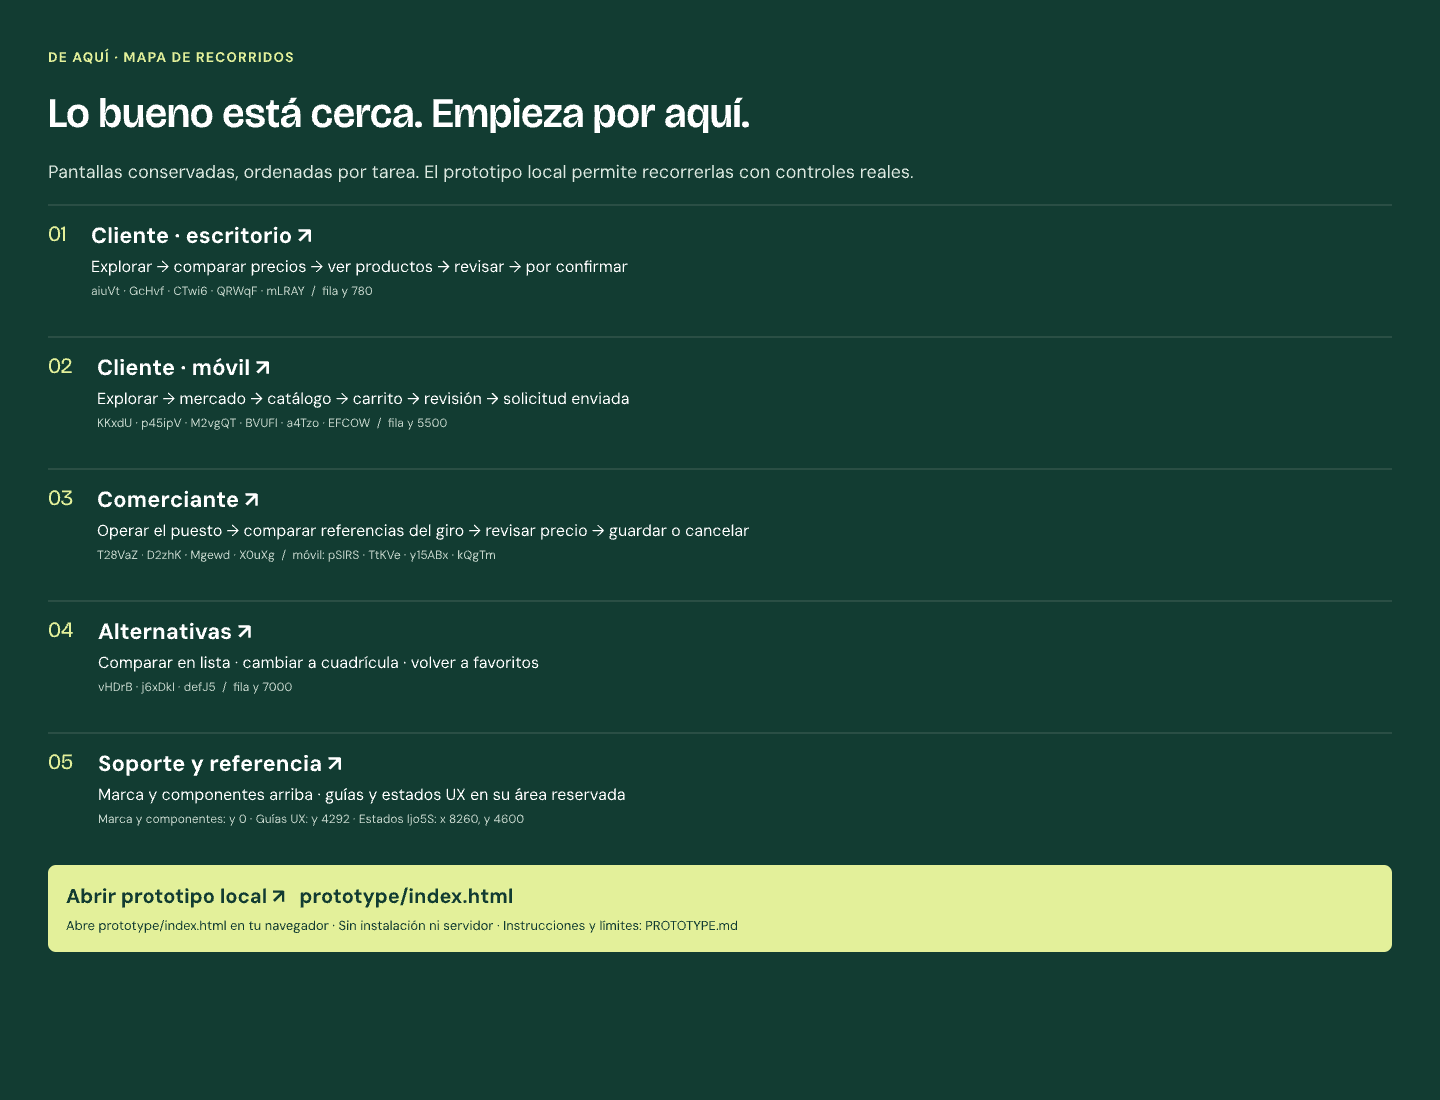
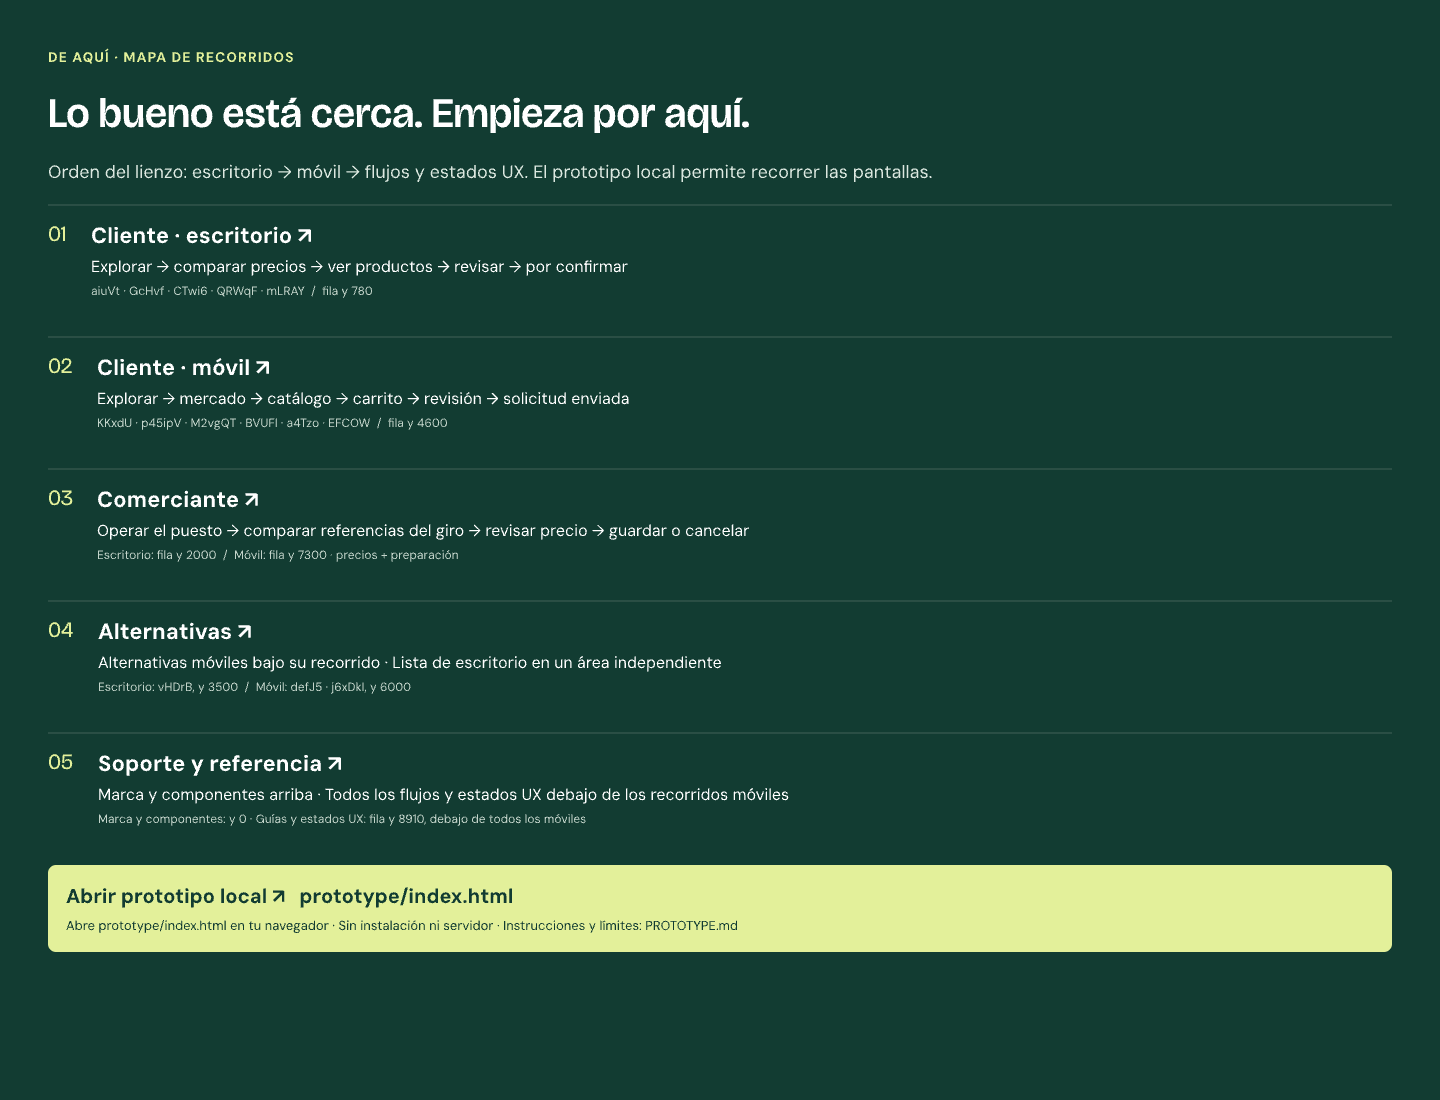
💄 REFACTOR: Updated design

diff --git a/PROTOTYPE.md b/PROTOTYPE.md
@@ -26,21 +26,22 @@ Después abre `http://127.0.0.1:4174`. El puerto no pudo abrirse en este sandbox
 
 ## Organización del lienzo
 
-`design.pen` conserva los IDs y el contenido de las pantallas. Este trabajo organiza posiciones y agrega el índice `DVSNA` y cinco encabezados de sección. No edita contenido de `T28VaZ` ni `r2JYH`; sus cambios concurrentes corresponden a sus diseñadores. Las pantallas nuevas se cotejaron con [DASHBOARD-DESIGN.md](DASHBOARD-DESIGN.md).
+`design.pen` conserva los IDs y el contenido de las pantallas. El lienzo separa los recorridos principales de sus alternativas y cuenta con el índice `DVSNA` y encabezados de sección. Las pantallas nuevas se cotejaron con [DASHBOARD-DESIGN.md](DASHBOARD-DESIGN.md).
 
 | Área | Posición |
 | --- | --- |
 | Marca, componentes y fotografías | y = 0 |
 | Cliente escritorio | y = 780, izquierda a derecha |
-| Comerciante escritorio y preparación | y = 2000 |
-| Comerciante móvil: resumen y precios | y = 3200, desde x = 8190 |
-| Tableros UX del diseñador principal | y = 4292; no se reubicaron |
-| Estados de apoyo `Ijo5S` | x = 8260, y = 4600; se movió para evitar el nuevo tablero UX |
-| Cliente móvil | y = 5500, izquierda a derecha |
-| Alternativas: listas y favoritos | y = 7000 |
-| Índice `DVSNA` | x = 0, y = 8500 |
+| Comerciante escritorio | y = 2000 |
+| Alternativa escritorio: mercado en lista | x = 0, y = 3500; último bloque de escritorio |
+| Cliente móvil: recorrido principal | y = 4600, x = 0–2450, izquierda a derecha |
+| Cliente móvil: favoritos y lista | y = 6000; favoritos bajo Explorar, lista bajo Mercado |
+| Comerciante móvil: resumen → comparar → revisar → guardado | y = 7300, x = 0–1470 |
+| Comerciante móvil: preparar pedido | x = 2200, y = 7300; rama de operación independiente |
+| Todos los tableros y estados UX | y = 8910, x = 0–6880; encabezado en y = 8800 |
+| Índice `DVSNA` | x = 0, y = 10300 |
 
-Auditoría final nativa: 41 raíces, sin solapamientos entre raíces, sin flags `placeholder` y sin problemas de recorte reportados en DVSNA. Se revisaron capturas de las secciones y del índice; las pantallas aprobadas conservan su composición. El índice usa los colores y fuentes existentes; no se sustituyó la UI de producción.
+Orden vertical del lienzo: escritorio → móvil → UX → índice. La última pantalla de escritorio termina en y = 4280; los móviles empiezan en y = 4600 y terminan en y = 8591. Los flujos y estados UX comienzan en y = 8910 y terminan en y = 10030. Se verificó la separación de escritorio y móvil; el diseñador delegado verificó las seis raíces de la sección UX, sin solapamientos y con placeholders despejados. Se actualizó la exportación del índice del prototipo. Las pantallas conservan su composición y sus destinos; este cambio solo modifica su ubicación en el lienzo y las indicaciones del índice. No se sustituyó la UI de producción.
 
 ## Alcance y límites
 
@@ -140,4 +141,3 @@ Cada nombre corresponde a un control del prototipo. Los destinos y rectángulos 
 | `Vo4aC` | UX · Alta y pagos · Publicar el puesto | Referencia estática; selector, índice y Volver |
 | `mplP7` | UX · Precios · Comparar y decidir | Referencia estática; selector, índice y Volver |
 | `DVSNA` | Prototipo · Índice de recorridos | Abrir recorrido 1 · Abrir recorrido 2 · Abrir recorrido 3 · Abrir recorrido 4 · Abrir recorrido 5 |
-
